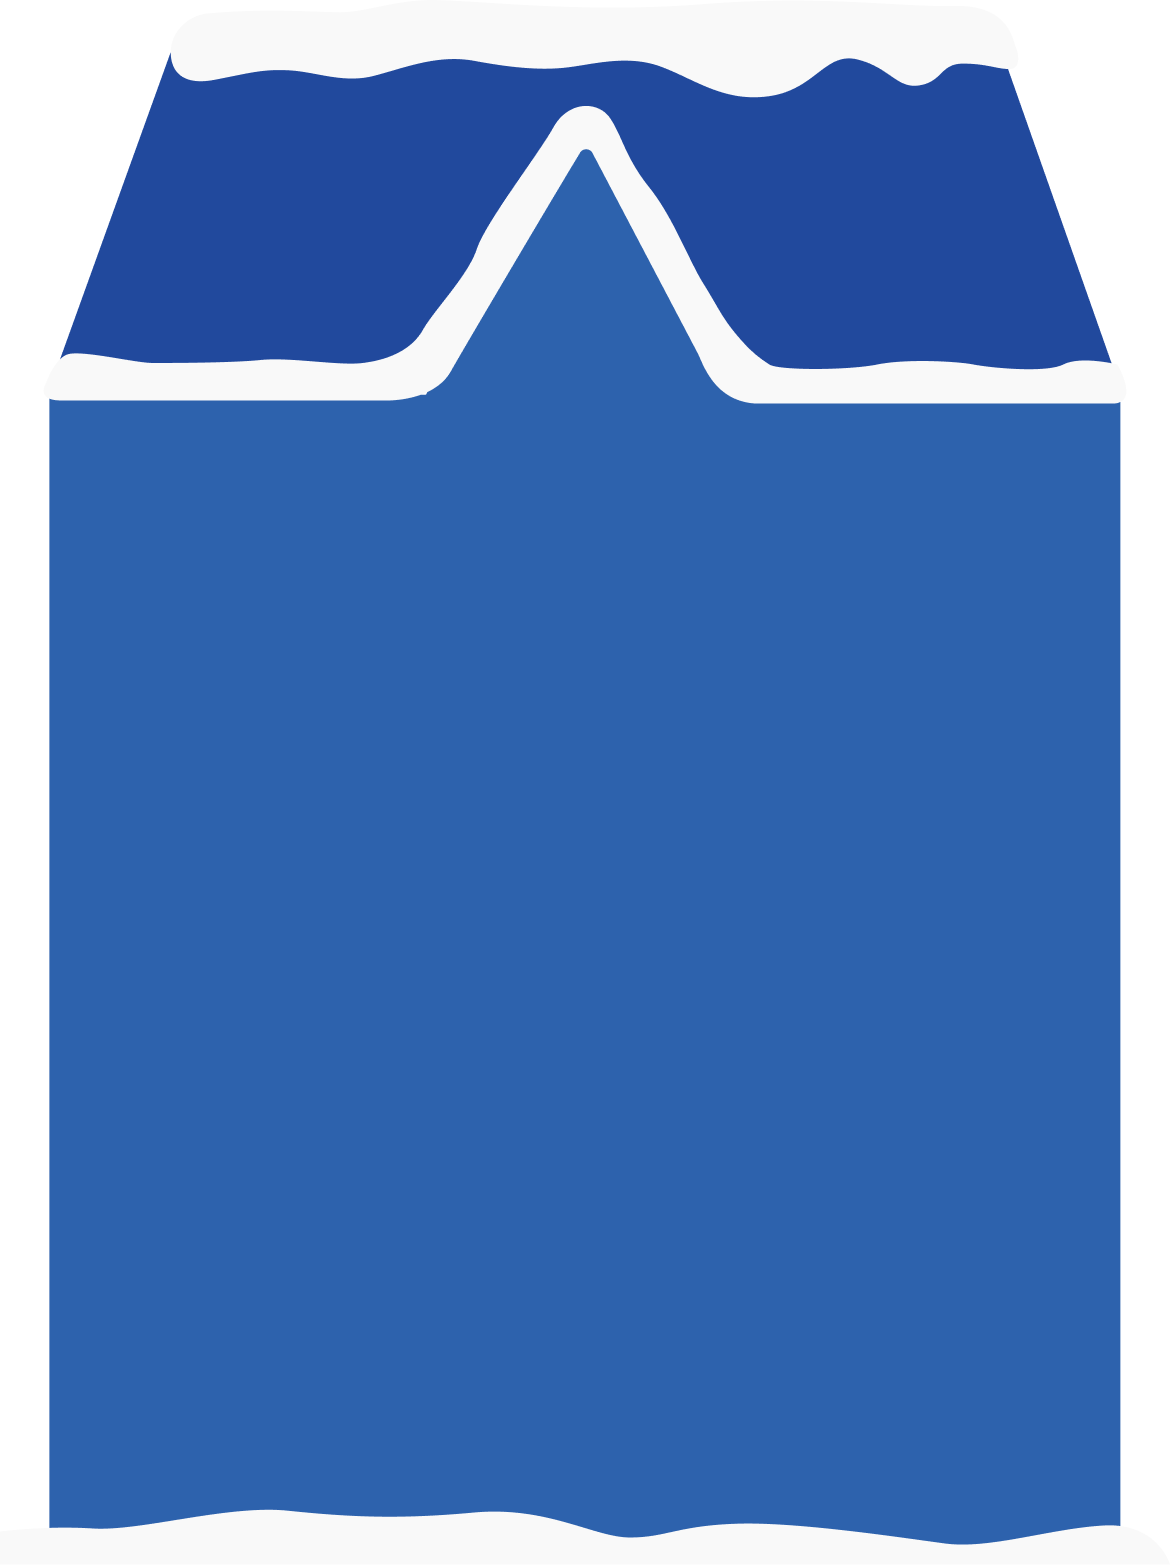
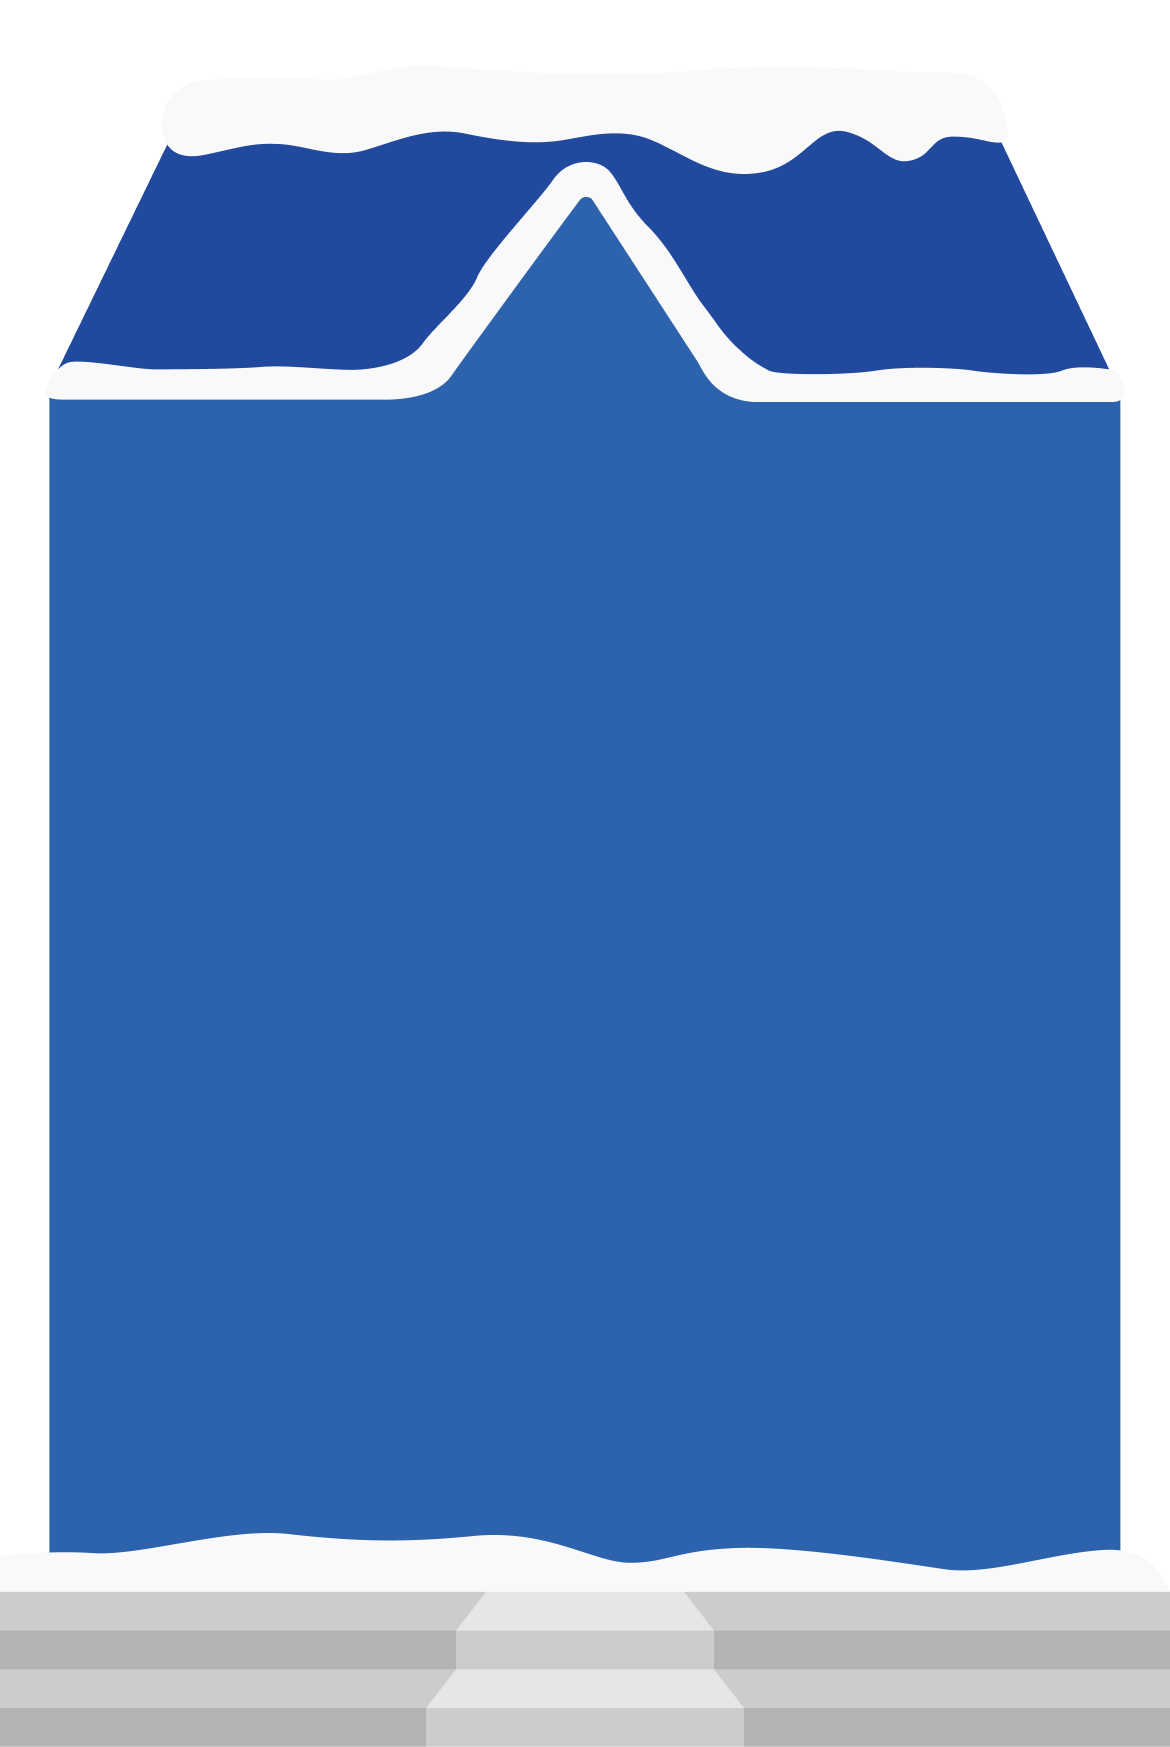
feat: 메인 반응형 레이아웃

diff --git a/components/index/Calendar.tsx b/components/index/Calendar.tsx
@@ -94,7 +94,7 @@ const Calendar = ({ ismycalendar, loggedId }) => {
             />
           </div>
         ))}
-          <BackGround src={`/asset_ver2/image/layout/back_house.png`}/>
+          <BackGround src={`/asset_ver2/image/layout/back_house.png`} width={`450`} height={`1000`}/>
           <Table>
               <tr>
                   {dayRow_1.map((day,idx)=>{
@@ -137,16 +137,18 @@ const Calendar = ({ ismycalendar, loggedId }) => {
   const RenderFriendsCalendar = () => {
     return (
       <>
-        {days.map((day, idx) => (
-          <DayImage
-            src={`/assets/image/days/day${idx + 1}.svg`}
-            onClick={() => {
-              handleShow(idx + 1);
-            }}
-            alt={`day${idx + 1}`}
-            key={day}
-          />
-        ))}
+          <BackGround src={`/asset_ver2/image/layout/back_house.png`}/>
+          {/*TODO:친구달력 레이아웃도 위처럼 만들기(너무 겹치면 컴포넌트로 빼주기)*/}
+        {/*{days.map((day, idx) => (*/}
+        {/*  <BasicDay*/}
+        {/*    day={}*/}
+        {/*    onClick={() => {*/}
+        {/*      handleShow(idx + 1);*/}
+        {/*    }}*/}
+        {/*    alt={`day${idx + 1}`}*/}
+        {/*    key={day}*/}
+        {/*  />*/}
+        {/*))}*/}
       </>
     );
   };
@@ -200,23 +202,21 @@ const CalendarWrapper = styled.div`
     margin: 5px auto;
   }
 `;
-const DayImg = styled(Image)` 
-  justify-content: center;
-  padding: 2px;
-  align-items: center;
-  cursor: pointer;
-  z-index: 10;
-`;
-const BackGround = styled.img`
-  width: 450px;
+const BackGround = styled(Image)`
+  width: 500px;
+  height: auto;
   position: fixed;
-  bottom: 80px;
+  bottom: 60px;
   z-index: -1;
   margin: 0 auto;
   left: 0;
   right: 0;
+  overflow: hidden;
   @media (max-width: 600px) {
-    width: 340px;
+    width: 390px;
+  }
+  @media (max-width: 380px) {
+    width: 360px;
   }
 `;
 const LoadingContainer = styled.div`
@@ -233,15 +233,19 @@ const LoadingHeader = styled.h2`
 `;
 
 const Table = styled.table`
-  width: 370px;
+  width: 390px;
   position: fixed;
-  bottom: 93px;
+  bottom: 165px;
   z-index: -1;
   margin: 0 auto;
   left: 0;
   right: 0;
   @media (max-width: 600px) {
-    margin-top: 70px;
-    width: 280px;
+    bottom: 135px;
+    width: 315px;
+  }
+  @media (max-width: 380px) {
+    bottom: 125px;
+    width: 300px;
   }
 `;

diff --git a/components/layout/new/MainLayout.tsx b/components/layout/new/MainLayout.tsx
@@ -1,0 +1,74 @@
+import styled from "styled-components";
+import Snow from "../Snow";
+import Header from "./Header";
+import Gnb from "./GNB";
+
+const Layout = ({ children = null  }) => {
+  return (
+    <Wrapper>
+      <Header />
+      <MainWrapper>
+        <Buildings src={"/asset_ver2/image/layout/forest_background.png"} />
+        {/*<Tree src={"/assets/image/layout/tree.svg"} />*/}
+        <UpperWrapper>{children}</UpperWrapper>
+        <Ground />
+      </MainWrapper>
+      <Snow />
+      <Gnb />
+    </Wrapper>
+  );
+};
+
+export default Layout;
+
+const Wrapper = styled.div`
+  background-color: #1c3249;
+  position: absolute;
+  width: 100%;
+  height: 100%;
+  top: env(safe-area-inset-top);
+  bottom: env(safe-area-inset-bottom);
+`;
+
+const MainWrapper = styled.div`
+  height: calc(100vh - 130px);
+  background-color: #1c3249;
+  position: relative;
+
+  overflow: scroll;
+  -ms-overflow-style: none; /* Explorer */
+  scrollbar-width: none; /* Firefox */
+  &::-webkit-scrollbar {
+    display: none; /* Chrome */
+  }
+`;
+
+const UpperWrapper = styled.div`
+  position: relative;
+  z-index: 1;
+`;
+
+const AbsoluteImg = styled.img`
+  position: absolute;
+  bottom: calc(env(safe-area-inset-bottom) + 17vh);
+  left: 50%;
+  transform: translateX(-50%);
+`;
+
+const Logo = styled(AbsoluteImg)`
+  width: 220px;
+  max-width: 50vw;
+  min-width: 200px;
+  top: calc(env(safe-area-inset-top) + 5vh);
+`;
+
+const Buildings = styled(AbsoluteImg)`
+  height: 25vh;
+`;
+const Ground = styled.div`
+  position: absolute;
+  width: 100%;
+  height: 17vh;
+  bottom: env(safe-area-inset-bottom);
+  background-color: #d9d9d9;
+`;

diff --git a/components/index/day/BasicDay.tsx b/components/index/day/BasicDay.tsx
@@ -11,8 +11,8 @@ const BasicDay = (props:BasicDayProps) => {
     return (
         <td key={idx}>
             <DayImg src={`/asset_ver2/image/days/day${day}.svg`}
-                    width={`100`}
-                    height={`100`}
+                    width={100}
+                    height={100}
                     layout="responsive"
                     key={idx}
                     alt={`day${day}`}/>
@@ -25,7 +25,7 @@ const DayImg = styled(Image)`
   padding: 2px;
   align-items: center;
   width: 100%;
-  height: 100%;
+  height: auto;
   cursor: pointer;
   z-index: 10;
 `;

diff --git a/pages/index.tsx b/pages/index.tsx
@@ -292,9 +292,6 @@ export default Home;
 // //TODO : 여기 손봐서 집모양 나오게 해야함
 Home.getLayout = (page: ReactElement) => {
   return (
-      <MainLayout
-      // isLogged={isLogged}
-      // ismycalendar={ismycalendar}
-      logo={"/assets/image/layout/logo.png"}>{page}</MainLayout>
+      <MainLayout>{page}</MainLayout>
   );
 };
